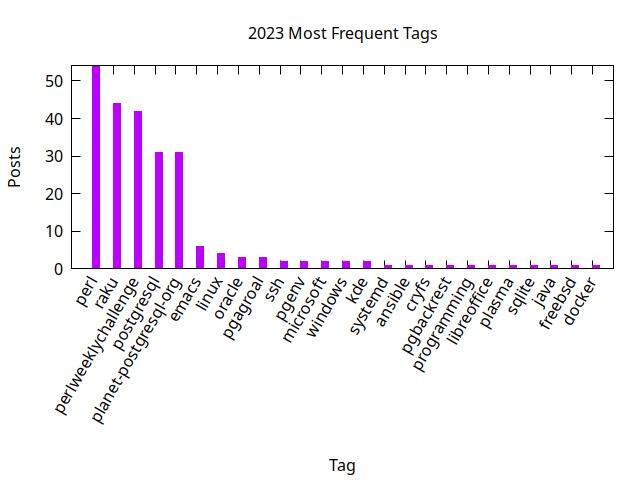
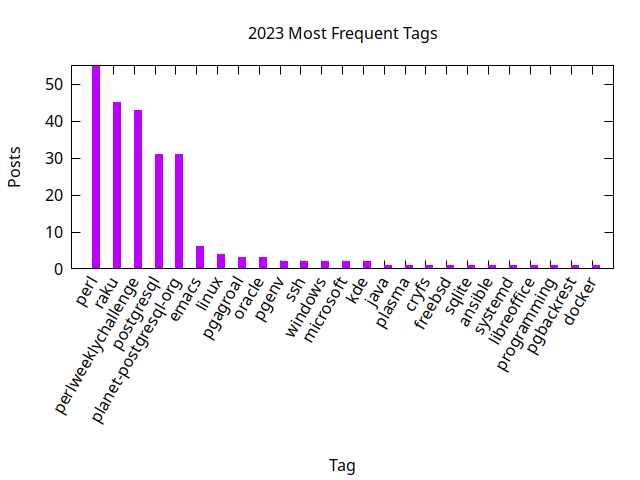
Update stats

diff --git a/_includes/stats/2023.md b/_includes/stats/2023.md
@@ -1,34 +1,34 @@
 <a name="2023" />
-## 2023 (work in progress)
+## 2023 
 
-**102 total posts** have been written on 2023.
+**103 total posts** have been written on 2023.
 There have been *25 different tags* used, the most
 popular being (sorted by number of posts):
  
-- *perl* (54 posts)  
-- *raku* (44 posts)  
-- *perlweeklychallenge* (42 posts)  
+- *perl* (55 posts)  
+- *raku* (45 posts)  
+- *perlweeklychallenge* (43 posts)  
 - *postgresql* (31 posts)  
 - *planet-postgresql-org* (31 posts)  
 - *emacs* (6 posts)  
 - *linux* (4 posts)  
-- *oracle* (3 posts)  
 - *pgagroal* (3 posts)  
-- *ssh* (2 posts)  
+- *oracle* (3 posts)  
 - *pgenv* (2 posts)  
-- *microsoft* (2 posts)  
+- *ssh* (2 posts)  
 - *windows* (2 posts)  
+- *microsoft* (2 posts)  
 - *kde* (2 posts)  
-- *systemd* (1 posts)  
-- *ansible* (1 posts)  
-- *cryfs* (1 posts)  
-- *pgbackrest* (1 posts)  
-- *programming* (1 posts)  
-- *libreoffice* (1 posts)  
-- *plasma* (1 posts)  
-- *sqlite* (1 posts)  
 - *java* (1 posts)  
+- *plasma* (1 posts)  
+- *cryfs* (1 posts)  
 - *freebsd* (1 posts)  
+- *sqlite* (1 posts)  
+- *ansible* (1 posts)  
+- *systemd* (1 posts)  
+- *libreoffice* (1 posts)  
+- *programming* (1 posts)  
+- *pgbackrest* (1 posts)  
 - *docker* (1 posts).<br/>
 <br/>
 The following is the overall 2023 post ratio by month:
@@ -48,7 +48,7 @@ The following is the overall 2023 post ratio by tag (showing max 30 tags):
 
 <div align="right">
 <small>
-Last generated on 2023-12-21 at 16:18
+Last generated on 2024-01-08 at 11:22
 </small>
 </div>
 

diff --git a/_includes/stats/2024.md b/_includes/stats/2024.md
@@ -1,0 +1,33 @@
+<a name="2024" />
+## 2024 (work in progress)
+
+**2 total posts** have been written on 2024.
+There have been *3 different tags* used, the most
+popular being (sorted by number of posts):
+ 
+- *raku* (2 posts)  
+- *perlweeklychallenge* (2 posts)  
+- *perl* (2 posts).<br/>
+<br/>
+The following is the overall 2024 post ratio by month:
+<br/>
+    <center>
+      <img src="/images/stats/2024-months.png" alt="2024 post ratio per month" />
+    </center>
+<br/>
+
+<br/>
+The following is the overall 2024 post ratio by tag (showing max 30 tags):
+<br/>
+  <center>
+    <img src="/images/stats/2024-tags.png" alt="2024 post ratio per tag" />
+  </center>
+<br/>
+
+<div align="right">
+<small>
+Last generated on 2024-01-08 at 11:22
+</small>
+</div>
+
+<br/>

diff --git a/_includes/stats/quick-links.md b/_includes/stats/quick-links.md
@@ -4,4 +4,4 @@ corresponding year:
  <br/> 
 - years 2000 - 2009: [2008](#2008), [2009](#2009)
 - years 2010 - 2019: [2010](#2010), [2011](#2011), [2012](#2012), [2013](#2013), [2014](#2014), [2015](#2015), [2016](#2016), [2017](#2017), [2018](#2018), [2019](#2019)
-- years 2020 - 2029: [2020](#2020), [2021](#2021), [2022](#2022), [2023](#2023)
+- years 2020 - 2029: [2020](#2020), [2021](#2021), [2022](#2022), [2023](#2023) [2024](#2024)

diff --git a/stats.md b/stats.md
@@ -20,6 +20,7 @@ I've also an [account on Gitlab](https://gitlab.com/{{ site.footer-links.gitlab 
 
 # Statistic Data about this *Blog*
 {% include stats/quick-links.md %}
+{% include stats/2024.md %}
 {% include stats/2023.md %}
 {% include stats/2022.md %}
 {% include stats/2021.md %}
